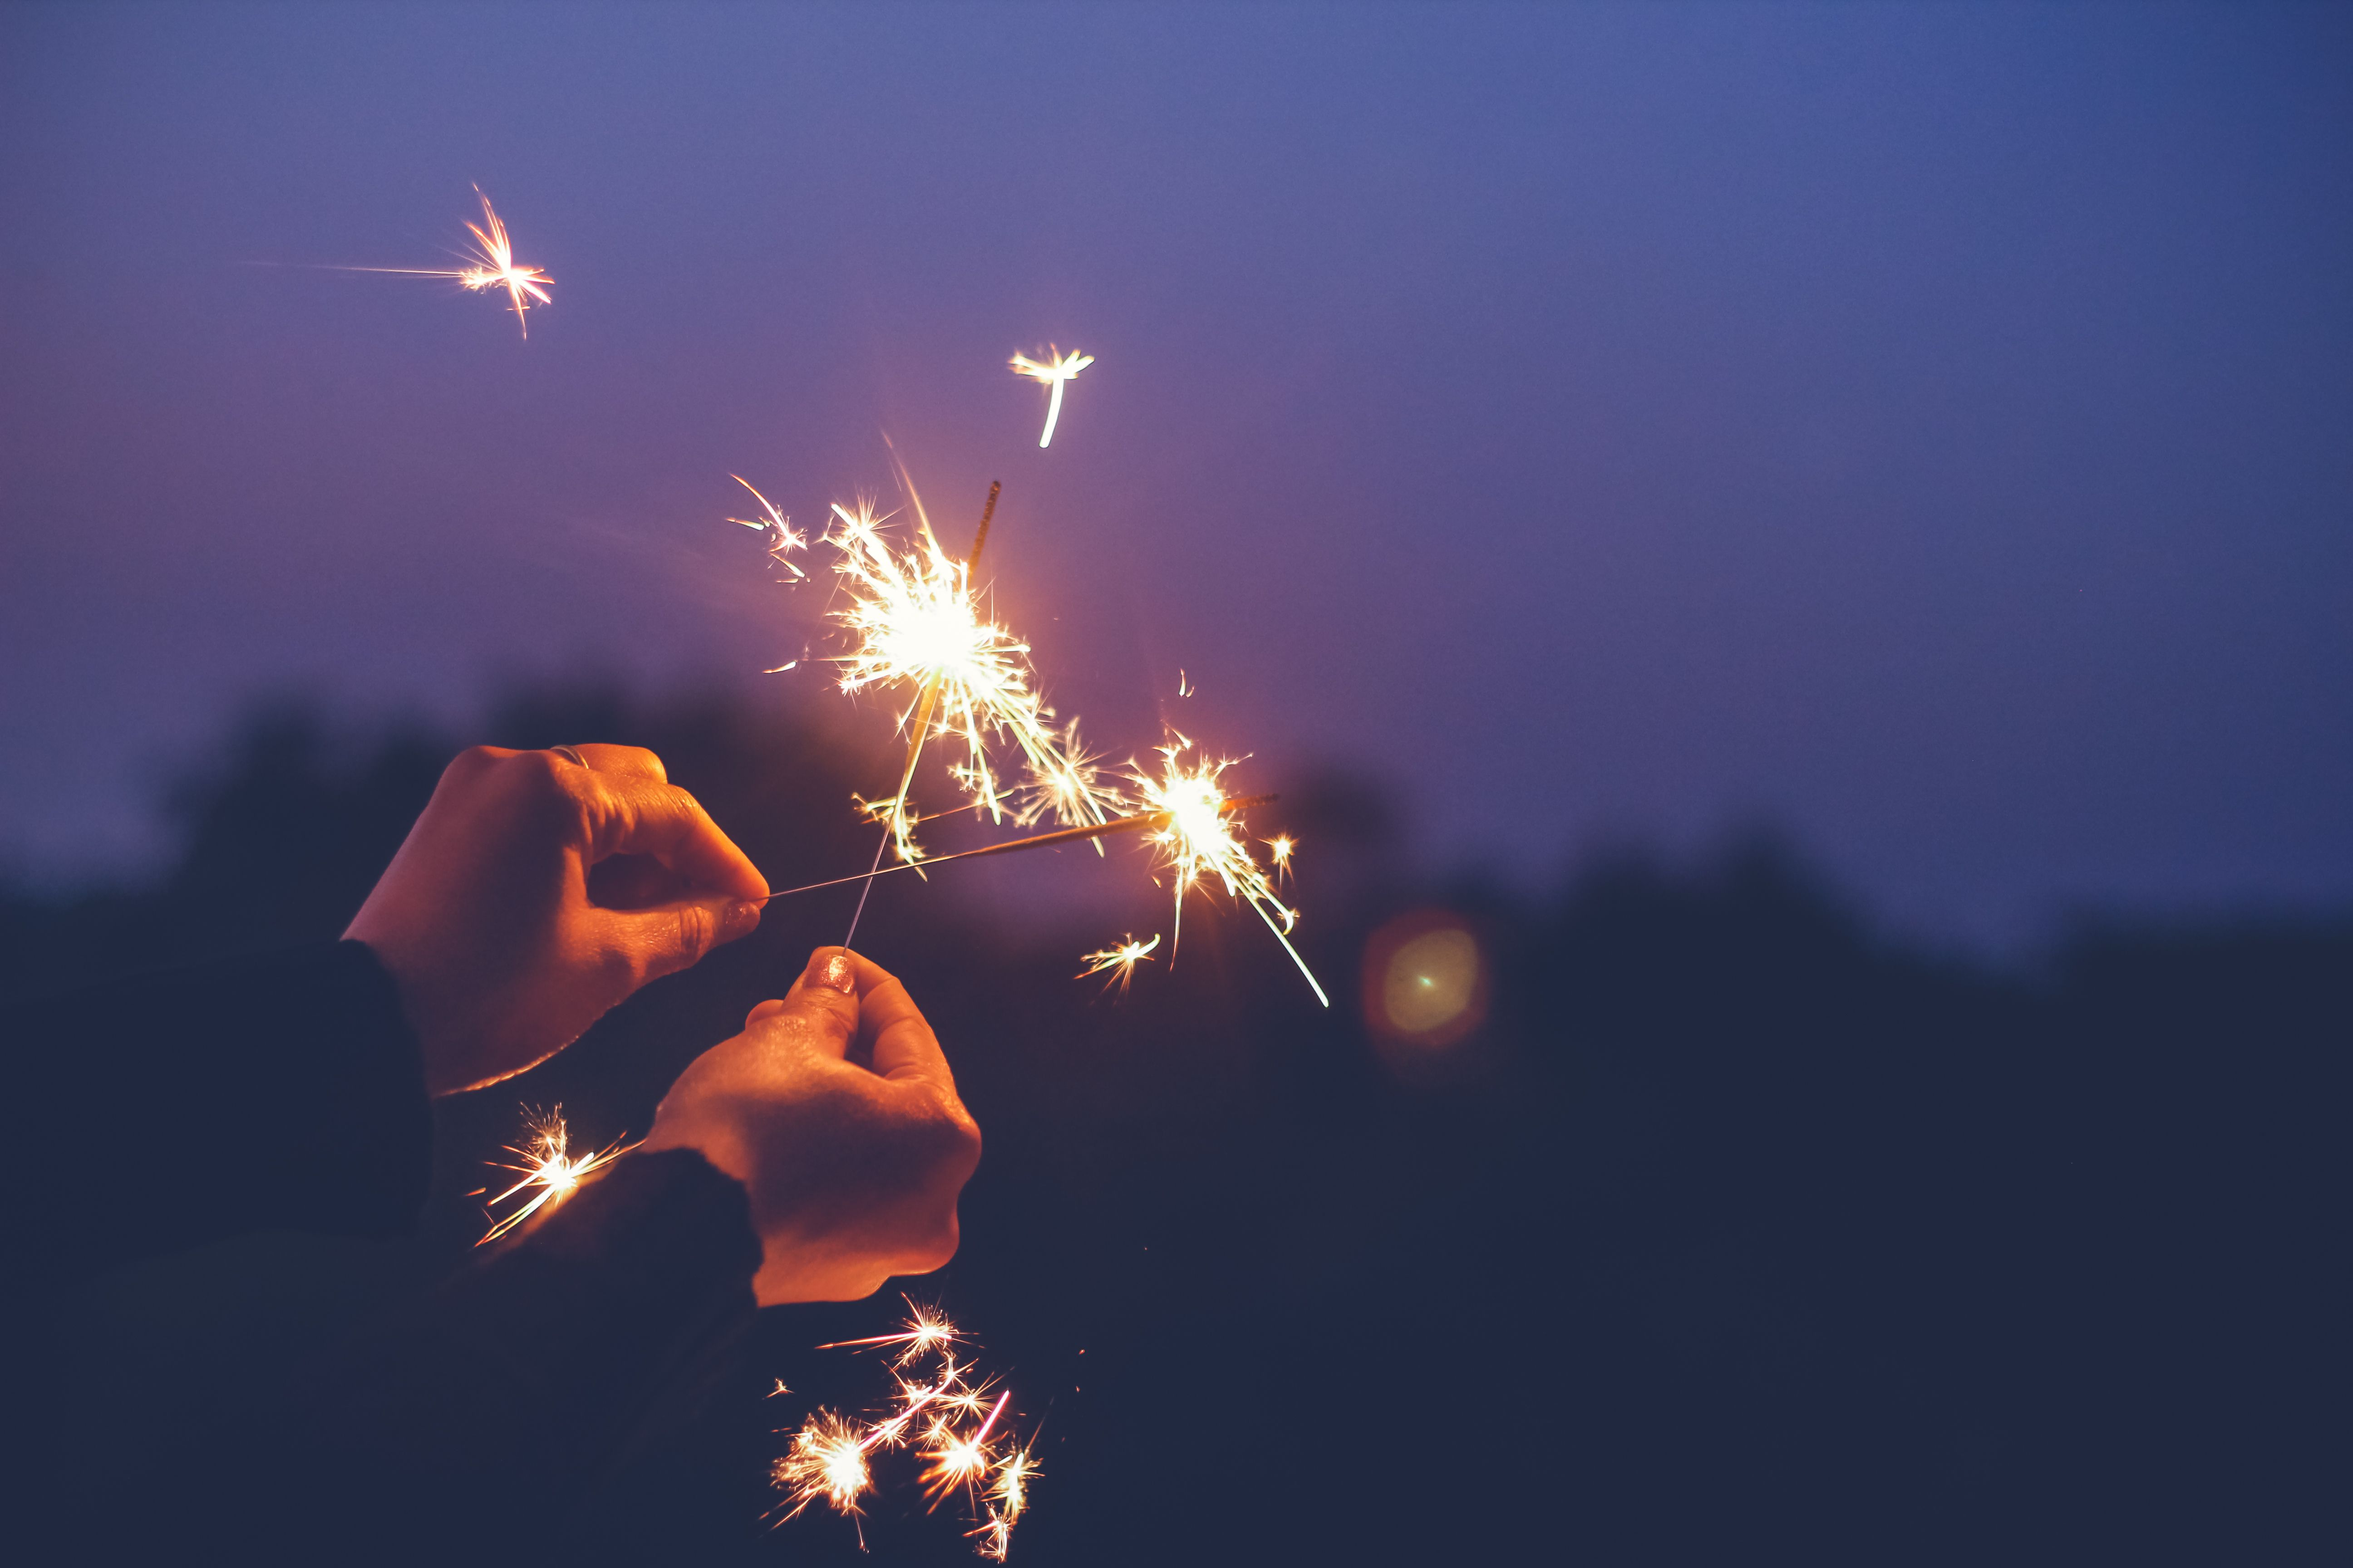
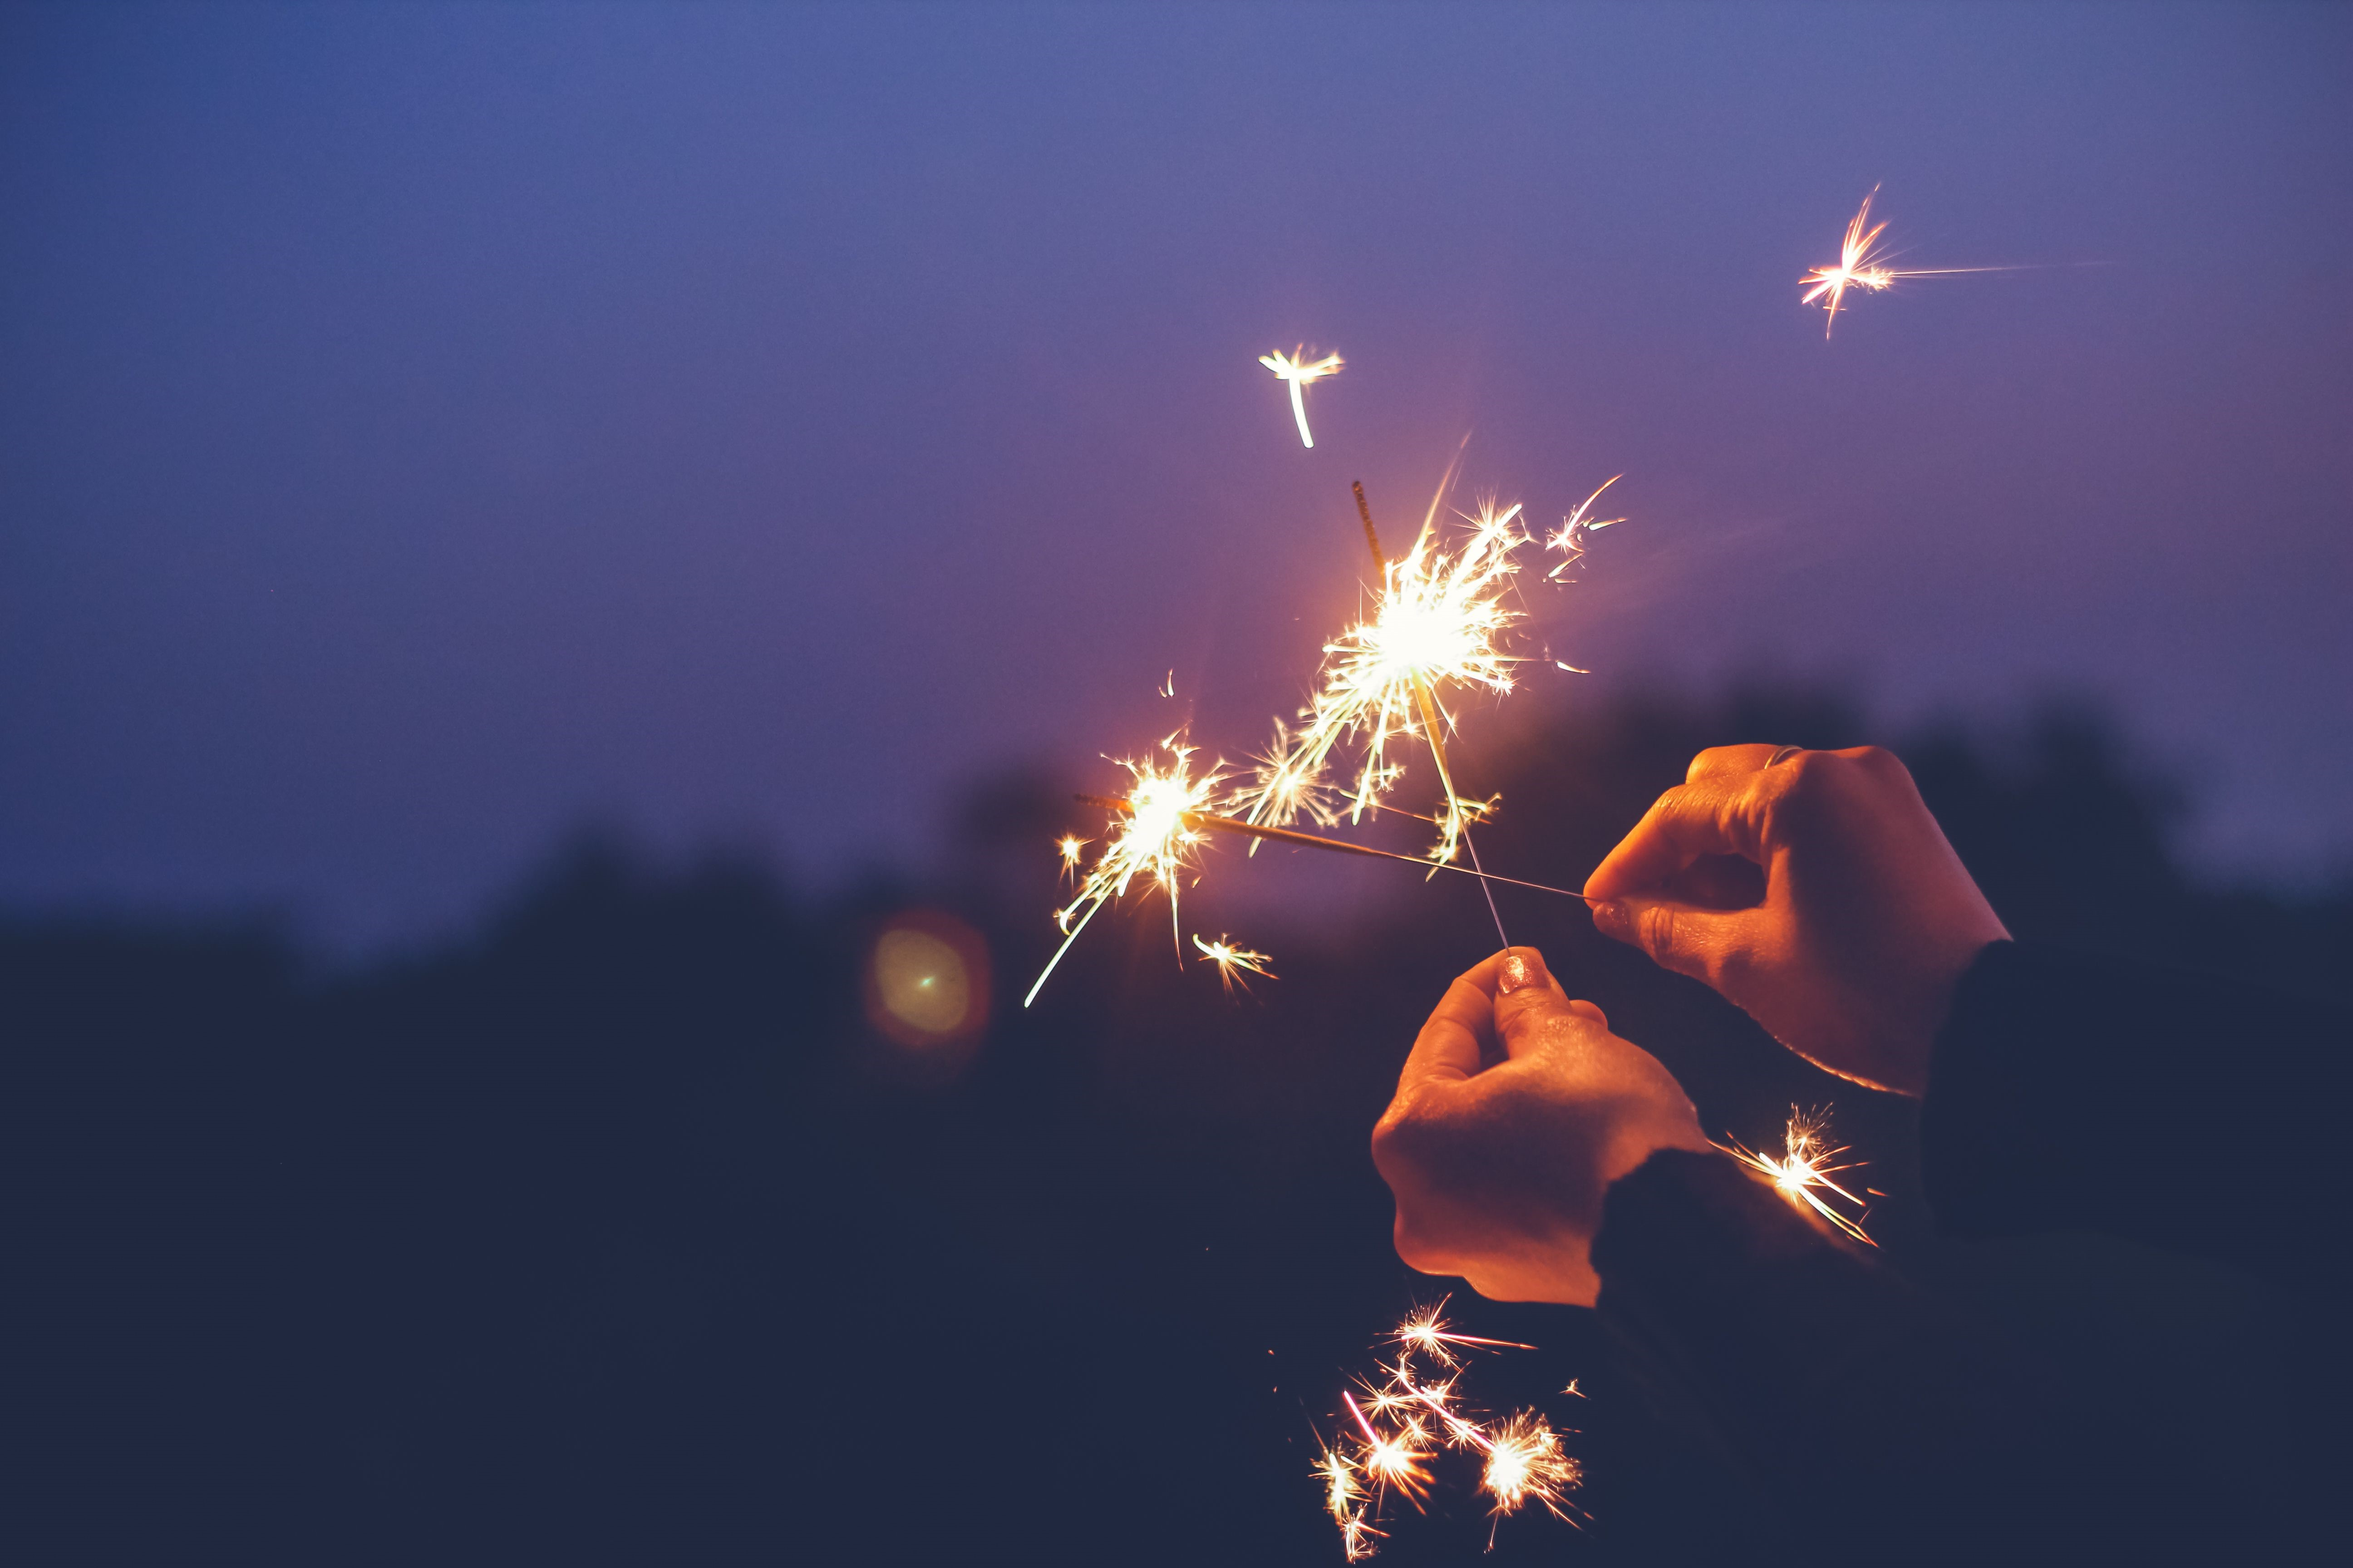
Added scss for navigation, flipped the background

diff --git a/src/css/style.css b/src/css/style.css
@@ -1,2 +1,2 @@
-p{color:green}
[1 lines of base64/hex data omitted]
+@import url("https://fonts.googleapis.com/css?family=Open+Sans:300,400,600,700");.nav{display:-webkit-box;display:-ms-flexbox;display:flex;-webkit-box-pack:justify;-ms-flex-pack:justify;justify-content:space-between;padding:2.4em 0;-webkit-box-align:center;-ms-flex-align:center;align-items:center}.nav__brand-logo{max-width:10em}.nav__list{display:-webkit-box;display:-ms-flexbox;display:flex;-webkit-box-pack:end;-ms-flex-pack:end;justify-content:flex-end;list-style-type:none}.nav__list-item{position:relative;display:inline-block;text-transform:uppercase;margin-left:2em}.nav__list-item .on-sale{position:absolute;top:-1.2em;left:0;font-size:.7em}.nav__link{color:#fff;text-decoration:none;font-weight:600;font-size:1.1em;letter-spacing:.05rem;white-space:nowrap;cursor:pointer}.offer{background:#add8e6}.price{background:#ffffe0}.benefits{background:#ffb6c1}.header{height:100vh;background:url(../../src/assets/background.jpg) no-repeat 50% fixed;background-size:cover}.header-container{width:70%;margin:auto;padding:0 1.5em}*{margin:0;padding:0;-webkit-box-sizing:border-box;box-sizing:border-box}body{font-family:Open-sans,sans-serif;font-size:62.5%}
[1 lines of base64/hex data omitted]

diff --git a/src/index.html b/src/index.html
@@ -5,6 +5,7 @@
   <meta charset="UTF-8">
   <meta name="viewport" content="width=device-width, initial-scale=1.0">
   <meta http-equiv="X-UA-Compatible" content="ie=edge">
+  <link rel="shortcut icon" href="//www.hostinger.com/assets/images/favicon-97d9192479.ico">
   <link rel="stylesheet" href="https://use.fontawesome.com/releases/v5.8.1/css/all.css" integrity="sha384-50oBUHEmvpQ+1lW4y57PTFmhCaXp0ML5d60M1M7uH2+nqUivzIebhndOJK28anvf" crossorigin="anonymous">
   <link rel="stylesheet" href="./css/style.css">
   <title>Hostinger Front-end</title>
@@ -15,7 +16,7 @@
     <div class="header-container">
       <div class="nav">
         <div class="nav__brand">
-          <img src="./assets/logo.png" alt="Hostinger Logo" class="nav__brand-logo">
+          <img src="./assets/logo.png" alt="hostinger.com" class="nav__brand-logo">
         </div>
         <!-- <input type="checkbox" id="nav-toggle" class="nav__toggle"> -->
         <nav>

diff --git a/src/scss/parts/header/_nav.scss b/src/scss/parts/header/_nav.scss
@@ -1,0 +1,40 @@
+.nav {
+  display: flex;
+  justify-content: space-between;
+  padding: 2.4em 0;
+  align-items: center;
+
+  &__brand-logo {
+    max-width: 10em;
+  }
+
+  &__list {
+    display: flex;
+    justify-content: flex-end;
+    list-style-type: none;
+
+    &-item {
+      position: relative;
+      display: inline-block;
+      text-transform: uppercase;
+      margin-left: 2em;
+
+      .on-sale {
+        position: absolute;
+        top: -1.2em;
+        left: 0;
+        font-size: 0.7em;
+      }
+    }
+  }
+
+  &__link {
+    color: $white;
+    text-decoration: none;
+    font-weight: 600;
+    font-size: 1.1em;
+    letter-spacing: 0.05rem;
+    white-space: nowrap;
+    cursor: pointer;
+  }
+}

diff --git a/src/scss/style.scss b/src/scss/style.scss
@@ -1,3 +1,15 @@
-p {
-  color: green;
+@import url('https://fonts.googleapis.com/css?family=Open+Sans:300,400,600,700');
+@import './colors.scss';
+@import './parts/header/header.scss';
+
+
+* {
+  margin: 0;
+  padding: 0;
+  box-sizing: border-box;
+}
+
+body {
+  font-family: "Open-sans", sans-serif;
+  font-size: 62.5%;
 }

diff --git a/src/scss/parts/header/_header.scss b/src/scss/parts/header/_header.scss
@@ -1,0 +1,15 @@
+@import './nav.scss';
+@import './promotion.scss';
+@import './benefits.scss';
+
+.header {
+  height: 100vh;
+  background: url('../../src/assets/background.jpg') no-repeat center center fixed;
+  background-size: cover;
+}
+
+.header-container {
+  width: 70%;
+  margin: auto;
+  padding: 0 1.5em;
+}

diff --git a/src/scss/parts/header/_promotion.scss b/src/scss/parts/header/_promotion.scss
@@ -1,0 +1,2 @@
+@import './offer.scss';
+@import './price.scss';

diff --git a/src/scss/parts/header/_benefits.scss b/src/scss/parts/header/_benefits.scss
@@ -1,0 +1,3 @@
+.benefits {
+  background: lightpink;
+}

diff --git a/src/scss/parts/header/_price.scss b/src/scss/parts/header/_price.scss
@@ -1,0 +1,3 @@
+.price {
+  background: lightyellow;
+}

diff --git a/src/scss/parts/header/_offer.scss b/src/scss/parts/header/_offer.scss
@@ -1,0 +1,3 @@
+.offer {
+  background: lightblue;
+}

diff --git a/src/scss/_colors.scss b/src/scss/_colors.scss
@@ -1,0 +1,1 @@
+$white: rgba(255, 255, 255, 1);
